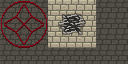
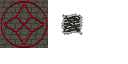
v0.3.2: added in a painter for the mass grave room

diff --git a/src/com/shatteredpixel/shatteredpixeldungeon/levels/painters/MassGravePainter.java b/src/com/shatteredpixel/shatteredpixeldungeon/levels/painters/MassGravePainter.java
@@ -1,0 +1,91 @@
+/*
+ * Pixel Dungeon
+ * Copyright (C) 2012-2015  Oleg Dolya
+ *
+ * Shattered Pixel Dungeon
+ * Copyright (C) 2014-2015 Evan Debenham
+ *
+ * This program is free software: you can redistribute it and/or modify
+ * it under the terms of the GNU General Public License as published by
+ * the Free Software Foundation, either version 3 of the License, or
+ * (at your option) any later version.
+ *
+ * This program is distributed in the hope that it will be useful,
+ * but WITHOUT ANY WARRANTY; without even the implied warranty of
+ * MERCHANTABILITY or FITNESS FOR A PARTICULAR PURPOSE.  See the
+ * GNU General Public License for more details.
+ *
+ * You should have received a copy of the GNU General Public License
+ * along with this program.  If not, see <http://www.gnu.org/licenses/>
+ */
+package com.shatteredpixel.shatteredpixeldungeon.levels.painters;
+
+import com.shatteredpixel.shatteredpixeldungeon.Assets;
+import com.shatteredpixel.shatteredpixeldungeon.actors.mobs.Skeleton;
+import com.shatteredpixel.shatteredpixeldungeon.items.Generator;
+import com.shatteredpixel.shatteredpixeldungeon.items.Gold;
+import com.shatteredpixel.shatteredpixeldungeon.items.Heap;
+import com.shatteredpixel.shatteredpixeldungeon.items.Item;
+import com.shatteredpixel.shatteredpixeldungeon.items.potions.PotionOfLiquidFlame;
+import com.shatteredpixel.shatteredpixeldungeon.items.quest.CorpseDust;
+import com.shatteredpixel.shatteredpixeldungeon.levels.Level;
+import com.shatteredpixel.shatteredpixeldungeon.levels.Room;
+import com.shatteredpixel.shatteredpixeldungeon.levels.Terrain;
+import com.shatteredpixel.shatteredpixeldungeon.ui.CustomTileVisual;
+import com.watabou.utils.Random;
+
+import java.util.ArrayList;
+
+public class MassGravePainter extends Painter {
+
+	public static void paint( Level level, Room room){
+
+		Room.Door entrance = room.entrance();
+		entrance.set(Room.Door.Type.BARRICADE);
+		level.addItemToSpawn(new PotionOfLiquidFlame());
+
+		fill(level, room, Terrain.WALL);
+		fill(level, room, 1, Terrain.EMPTY_SP);
+
+		level.customTiles.addAll(Bones.CustomTilesForRoom(room, Bones.class));
+
+		//50% 1 skeleton, 50% 2 skeletons
+		for (int i = 0; i <= Random.Int(2); i++){
+			Skeleton skele = new Skeleton();
+
+			int pos;
+			do {
+				pos = room.random();
+			} while (level.map[pos] != Terrain.EMPTY_SP);
+			skele.pos = pos;
+			level.mobs.add( skele );
+		}
+
+		ArrayList<Item> items = new ArrayList<>();
+		//100% corpse dust, 2x100% 1 coin, 2x30% coins, 1x60% random item, 1x30% armor
+		items.add(new CorpseDust());
+		items.add(new Gold(1));
+		items.add(new Gold(1));
+		if (Random.Float() <= 0.3f) items.add(new Gold());
+		if (Random.Float() <= 0.3f) items.add(new Gold());
+		if (Random.Float() <= 0.6f) items.add(Generator.random());
+		if (Random.Float() <= 0.3f) items.add(Generator.randomArmor());
+
+		for (Item item : items){
+			int pos;
+			do {
+				pos = room.random();
+			} while (level.map[pos] != Terrain.EMPTY_SP || level.heaps.get(pos) != null);
+			Heap h = level.drop(item, pos);
+			h.type = Heap.Type.SKELETON;
+		}
+	}
+
+	public static class Bones extends CustomTileVisual {
+		{
+			tx = Assets.PRISON_QUEST;
+			txX = 3;
+			txY = 0;
+		}
+	}
+}

diff --git a/src/com/shatteredpixel/shatteredpixeldungeon/levels/Room.java b/src/com/shatteredpixel/shatteredpixeldungeon/levels/Room.java
@@ -68,7 +68,12 @@ public class Room extends Rect implements Graph.Node, Bundlable {
 		POOL		( PoolPainter.class ),
 		RAT_KING	( RatKingPainter.class ),
 		WEAK_FLOOR	( WeakFloorPainter.class ),
-		PIT			( PitPainter.class );
+		PIT			( PitPainter.class ),
+
+		//prison quests
+		MASS_GRAVE  ( MassGravePainter.class ),
+		ROT_GARDEN  ( StandardPainter.class ),
+		RITUAL_SITE ( StandardPainter.class );
 		
 		private Method paint;
 		

diff --git a/src/com/shatteredpixel/shatteredpixeldungeon/Assets.java b/src/com/shatteredpixel/shatteredpixeldungeon/Assets.java
@@ -108,6 +108,7 @@ public class Assets {
 	public static final String WATER_HALLS	= "water4.png";
 
 	public static final String WEAK_FLOOR   = "custom_tiles/weak_floor.png";
+	public static final String PRISON_QUEST = "custom_tiles/prison_quests.png";
 	
 	public static final String BUFFS_SMALL	= "buffs.png";
 	public static final String BUFFS_LARGE	= "large_buffs.png";
